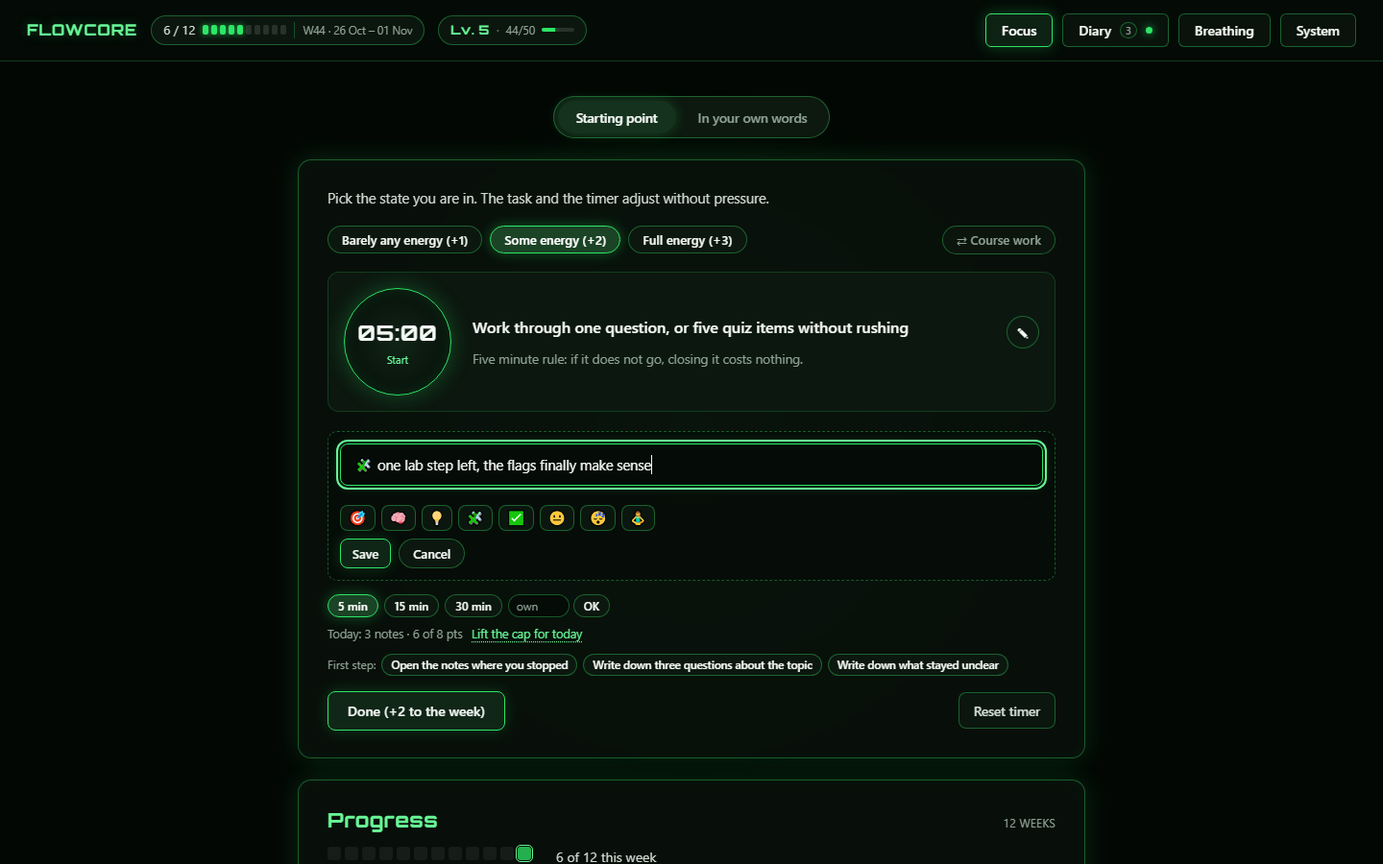
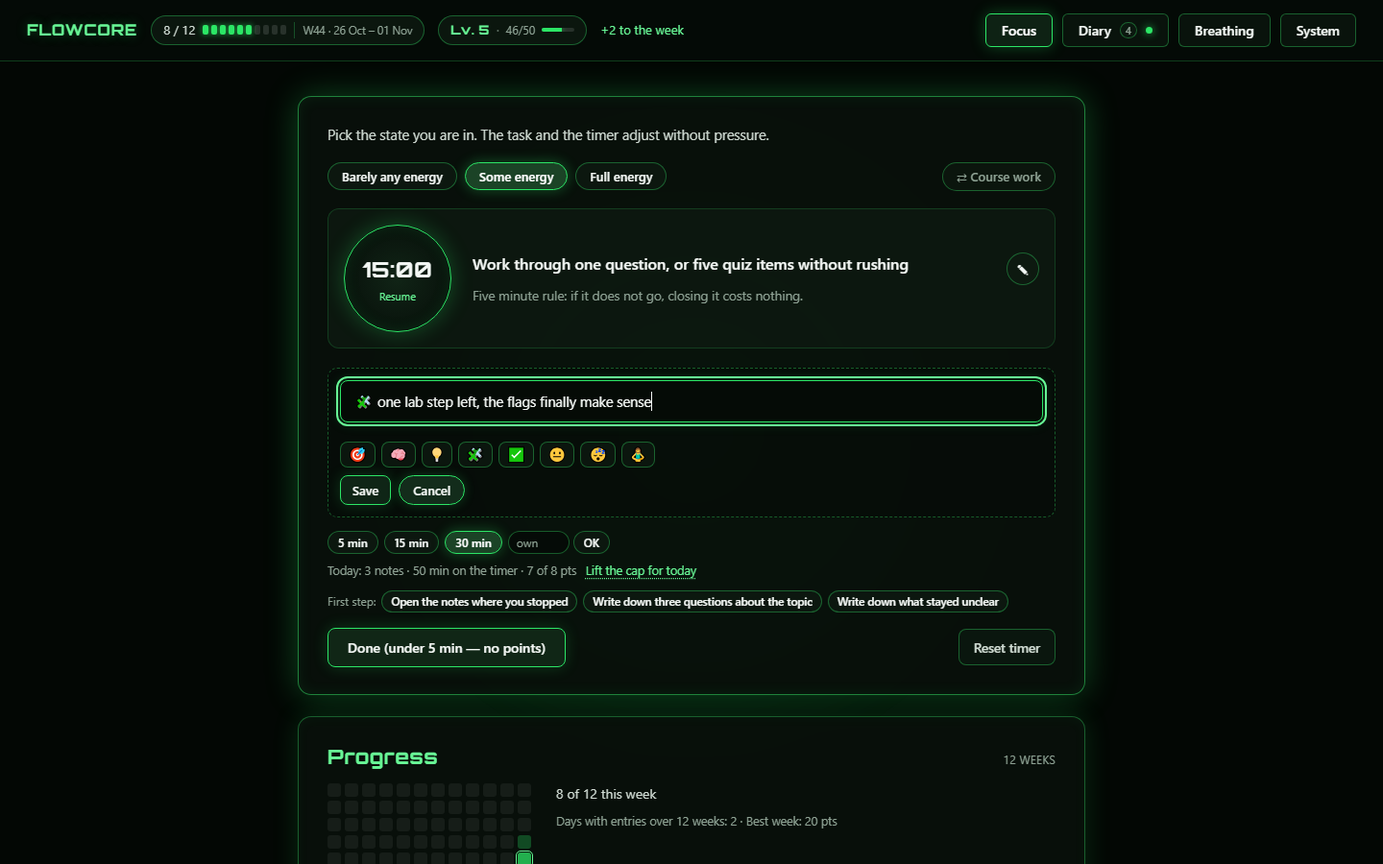
docs(flowcore): the READMEs describe time-priced points and the new diary
Both languages drop the +1/+2/+3 promise on the energy pills, gain the
ten-minute rule with the button that names the amount, the quick chips with
their types and the row marks. The check count follows the suite, and the
screenshots come from this build: one card, six chips, and a diary row with
a type mark next to an entry that already carries its own emoji.

diff --git a/README.ru.md b/README.ru.md
@@ -19,13 +19,15 @@
 - Пропущенный день ничего не стоит: очки живут на неделе, а не на дне.
 - Дневник остаётся в браузере: без аккаунта, без сервера, работает офлайн.
 
-**Три режима по силам.** «Совсем мало сил» (+1), «Немного сил» (+2), «Полные силы» (+3). Для каждой сферы свои задачи под каждый режим — не нужно придумывать формулировку заново.
+**Три режима по силам.** «Совсем мало сил», «Немного сил», «Полные силы». Режим выбирает, какая задача перед глазами и на сколько поставить таймер; очки он больше не решает. Для каждой сферы свои задачи под каждый режим — не нужно придумывать формулировку заново.
+
+**Очки — это подтверждённое время, а не выбранное настроение.** Отрезок даёт одно очко за каждые десять минут с округлением: 5–14 минут — 1, 15–24 — 2, 25 и больше — 3, и час всё равно 3. Короче пяти минут — ноль, так что правило пяти минут остаётся с наградой. Кнопка называет сумму до нажатия: цену задаёт таймер, а не выпадающий список.
 
 **Первый шаг вместо «поработать».** К задаче прилагаются три конкретных физических действия («открыть редактор», «прочитать последний абзац»). Пять минут считаются работой, даже если дальше не пошло.
 
 **Заметка прямо у задачи.** Карандаш рядом с задачей открывает строку на месте, с восемью эмодзи, которые вставляются в текст. Заметка ложится в дневник под названием сферы и очков не даёт: это память, а не выполненный шаг. Ряд эмодзи необязателен и выключается в «Системе»; в быстрой пометке дневника те же восемь знаков.
 
-**Две карточки, один переключатель.** «Точка старта» и «Своими словами» меняются местами кнопкой над ними: выбранная карточка занимает всю ширину, вторая ждёт в одном нажатии, и выбор запоминается. На телефоне это один экран вместо прокрутки.
+**Быстрая пометка в дневнике и маленький значок в каждой строке.** Шесть чипов — рабочий шаг, вовремя остановился, туман или усталость, ком в груди, поверхностное дыхание, хороший фокус — пишут запись одним тапом и сразу со своим типом, чтобы отчёт для врача не путал шаги, телесные сигналы и ранние остановки. У каждой строки есть маленький значок типа (шаг, сигнал, остановка, заметка), если у записи нет своего эмодзи. Отдельная карточка «Своими словами» убрана: она делала ту же работу, что этот блок, но платила за то же действие по-другому, а писать в одном месте достаточно.
 
 **На телефоне — две сводки.** Ряд длительностей таймера и три чипа первого шага живут за кнопками «5 мин ▾» и «Первый шаг ▾»: раскрываются на месте, закрываются после выбора, а сводка держит текущее значение. Цели касания выросли до 40 px, главное действие — до 44, чтобы в плохой день не приходилось прицеливаться. Сами четыре раздела переехали в полосу высотой 54 px внизу, текущий отмечен линией: шапка больше не липнет к верху, а новый раздел открывается с начала. У вкладки дневника не цифра, а точка: она загорается, только когда с прошлого захода туда что-то записалось, и гаснет, как только дневник открыт.
 
@@ -33,7 +35,7 @@
 
 **Неделя, а не день.** Очки копятся на неделю (по умолчанию 12, настраивается). Пропущенный день ничего не сбрасывает; неделя закрывается в архив сама. Видно тепловую карту за 12 недель и график последних недель.
 
-**Мягкий потолок дня: 8 очков.** После него записи идут дальше, но очки не растут — длина работы перестаёт быть единственной наградой. На хорошем дне потолок снимается одним кликом на строке «сегодня» до полуночи, а назавтра включается сам. Есть опция «очки только за отработанное время»: «Выполнено» даст очки, только если таймер честно отработал 5 минут.
+**Мягкий потолок дня: 8 очков.** После него записи идут дальше, но очки не растут — длина работы перестаёт быть единственной наградой. На хорошем дне потолок снимается одним кликом на строке «сегодня» до полуночи, а назавтра включается сам. Есть опция «очки только за отработанное время»: «Выполнено» не сработает, пока таймер не отработал 5 минут; без неё короткая заметка всё равно попадёт в дневник, просто без очков.
 
 **Уровень за всё время.** 10 опыта = уровень; опыт считается из всех очков за всю историю и не сгорает с неделей. Уровень открывает скины: изумруд (1), янтарь (3), призма (5), кибер (6), аврора (10) — каждый меняет палитру целиком, включая фоновую пульсацию. У призмы панель сине-фиолетовая, а по верху каждой карточки идёт статичная полоса из всех четырёх палитр.
 
@@ -43,7 +45,7 @@
 
 **Дыхание — две техники и фон.** «Спокойный выдох 4/6» на минуту и «Вздох на пять минут»: два вдоха носом и длинный выдох ртом — то, что снимает острую тревогу за пару циклов, когда минуты не хватает. Рядом — генератор коричневого шума с ползунком громкости: шум считается в браузере, ни файлов, ни сети. На телефоне звук обрывается, если погасить экран: это про пять-десять минут, а не про сон.
 
-**Дневник и выгрузка.** Быстрые пометки в один клик, сводка локально, сводка через ИИ (если вписан свой ключ Gemini), копирование всего дневника текстом и экспорт недели в `.md` с YAML-заголовком — файл сразу ложится в Obsidian.
+**Дневник и выгрузка.** Быстрые пометки в один клик со значком типа в каждой строке, сводка локально, сводка через ИИ (если вписан свой ключ Gemini), копирование всего дневника текстом и экспорт недели в `.md` с YAML-заголовком — файл сразу ложится в Obsidian.
 
 **Свои сферы и тексты.** Первый запуск — три вопроса: чем занята голова, сколько очков в неделю, как назвать главное дело. Пропустить можно одной кнопкой: тогда ставятся две нейтральные сферы — дело и отдых, обе на языке интерфейса. Дальше названия, задачи и шаги правятся прямо в панели.
 
@@ -118,7 +120,7 @@ python serve.py --lan      # доступ в домашней сети по http
 node tests/run.js
 ```
 
-Сейчас **462 проверки**: недельный ролловер и архив, миграция старых бэкапов, замок, дневной потолок и его снятие на день, уровень и скины, резерв, бонус отдыха, переключатель карточек, сводки на телефоне, заметка к задаче и набор эмодзи, методики дыхания и фазы, шум с общим выключателем звука, экспорт в Markdown, редактор сфер, интервью первого запуска, словарь на четыре языка (все ключи из разметки и кода на месте, склонения через `Intl.PluralRules`). Тесты вырезают скрипт из настоящего `flowcore.html`, поэтому проверяют именно тот файл, который открывает браузер.
+Сейчас **480 проверок**: недельный ролловер и архив, миграция старых бэкапов, замок, очки за подтверждённое время, дневной потолок и его снятие на день, уровень и скины, резерв, бонус отдыха, быстрые чипы и их типы, значок типа в строках дневника, сводки на телефоне, заметка к задаче и набор эмодзи, методики дыхания и фазы, шум с общим выключателем звука, экспорт в Markdown, редактор сфер, интервью первого запуска, словарь на четыре языка (все ключи из разметки и кода на месте, склонения через `Intl.PluralRules`). Тесты вырезают скрипт из настоящего `flowcore.html`, поэтому проверяют именно тот файл, который открывает браузер.
 
 Те же проверки запускаются на GitHub Actions при каждом push и pull request — файл `.github/workflows/tests.yml`. Сборки нет, поэтому шагов всего три: checkout, Node, `node tests/run.js`.
 

diff --git a/README.md b/README.md
@@ -19,13 +19,15 @@ If you are in a hurry:
 - A missed day costs nothing: points live on the week, not the day.
 - Your diary stays in the browser: no account, no server, works offline.
 
-**Three levels of energy.** Barely any (+1), some (+2), full (+3). Every area keeps its own task for each level, so you never invent the wording again.
+**Three levels of energy.** Barely any, some, full. The level picks which task is in front of you and how long the timer starts; it no longer decides the points. Every area keeps its own task for each level, so you never invent the wording again.
+
+**Points are the time you confirm, not the mood you picked.** A confirmed stretch gives one point for every ten minutes, rounded: 5–14 minutes give 1, 15–24 give 2, 25 and more give 3, and an hour is still 3. Under five minutes gives nothing, so the five-minute rule keeps its own reward. The button says the amount before you press it: the timer sets the price, not a dropdown.
 
 **A first step instead of "go work".** Each task comes with three concrete physical actions: open the editor, read the last paragraph, write down one question. Five minutes count as work even if you stop right there.
 
 **A note on the task itself.** The pencil next to the task opens a line right there, with eight emoji that insert into the text. The note lands in the diary under the area's name and gives no points: it is memory, not a finished step. The row of emoji is optional and switches off in System; the quick note in the diary offers the same eight signs.
 
-**Two cards, one switch.** "Starting point" and "In your own words" trade places through a switch above them: the chosen card takes the whole width, the other waits one tap away, and the choice is remembered. On a phone that is one screen instead of a scroll.
+**A quick note in the diary, and a small mark on every row.** Six chips — a work step, stopped in time, fog or fatigue, tightness in the chest, shallow breathing, good focus — write an entry in one tap with its own type, so the doctor report keeps steps, body signals and early stops apart. Every row also carries a small type mark (a step, a signal, a stop, a note) whenever the entry has no emoji of its own. The separate "In your own words" card is gone: it did the same job as this block but paid differently for the same act, and one place to write is enough.
 
 **On a phone, two summary buttons.** The row of timer lengths and the three first-step chips fold behind "5 min ▾" and "First step ▾": they open in place, close after a choice, and the summary keeps the current value. Every target grows to 40 px, and the primary action to 44, so nothing has to be aimed at on a bad day. The four sections themselves move into a 54 px bar along the bottom, the current one marked by a line; the header stops sticking and a new section opens from the top. The diary tab carries a dot, not a number: it appears only when something was written since you last opened the diary, and goes out the moment you do.
 
@@ -33,7 +35,7 @@ If you are in a hurry:
 
 **A week, not a day.** Points collect over the week (12 by default, adjustable). A missed day resets nothing, and the week closes into the archive on its own. The panel shows a heat map for the last 12 weeks and a chart of recent weeks.
 
-**A soft cap of 8 points a day.** Past it, notes keep going in and points stop growing, so the length of work stops being the only reward. On a day that is going well the cap can be lifted until midnight with one click on the today line; the next day it is back on its own. An optional strict mode gives points only for the time the timer actually ran.
+**A soft cap of 8 points a day.** Past it, notes keep going in and points stop growing, so the length of work stops being the only reward. On a day that is going well the cap can be lifted until midnight with one click on the today line; the next day it is back on its own. An optional strict mode refuses the button until the timer has run five minutes; without it a short note still goes into the diary, it just brings no points.
 
 **A level for all time.** 10 experience points make a level, counted from every point you ever earned, so a new week does not burn it. Levels unlock skins: emerald (1), amber (3), prism (5), cyber (6), aurora (10). Each one changes the whole palette, the background pulse included; prism turns the panel blue-violet and gives each card a thin static line of all four palettes.
 
@@ -43,7 +45,7 @@ If you are in a hurry:
 
 **Breathing: two techniques and a background.** "Calm exhale 4/6" runs for a minute. "A five-minute sigh" is two breaths in through the nose and one long breath out through the mouth, which is what takes the edge off acute anxiety when a minute is not enough. Next to it sits a brown noise generator with a volume slider. The noise is computed in the browser, so there are no files and no network. On a phone the sound stops when the screen locks, which makes this a tool for five or ten minutes, not for falling asleep.
 
-**Diary and export.** Notes in one tap, a summary built locally, an AI summary if you add your own Gemini key, the whole diary copied as text, and a week exported as `.md` with YAML front matter that Obsidian reads as is.
+**Diary and export.** Notes in one tap with a type mark on every row, a summary built locally, an AI summary if you add your own Gemini key, the whole diary copied as text, and a week exported as `.md` with YAML front matter that Obsidian reads as is.
 
 **Your own areas and wording.** The first run asks three questions: what is on your mind, how many points a week, what to call the main thing. One button skips all three and leaves two neutral areas, one thing of your own and rest, both in the interface language. Names, tasks and steps are edited in the panel afterwards.
 
@@ -118,7 +120,7 @@ On Windows, `FlowCore.cmd` does the same from a double click.
 node tests/run.js
 ```
 
-There are **462 checks**: week rollover and the archive, migration of older backups, the lock, the daily cap and lifting it for a day, level and skins, the reserve, the rest bonus, the card switch, the phone summaries, the task note and its emoji set, breathing techniques and their phases, noise under the master sound switch, Markdown export, the area editor, the first-run interview, and the dictionary in four languages (every key from the markup and the code exists, plurals go through `Intl.PluralRules`). The tests cut the script out of the real `flowcore.html`, so they check the file the browser actually opens.
+There are **480 checks**: week rollover and the archive, migration of older backups, the lock, points from confirmed time, the daily cap and lifting it for a day, level and skins, the reserve, the rest bonus, the quick chips and their types, the type mark in the diary rows, the phone summaries, the task note and its emoji set, breathing techniques and their phases, noise under the master sound switch, Markdown export, the area editor, the first-run interview, and the dictionary in four languages (every key from the markup and the code exists, plurals go through `Intl.PluralRules`). The tests cut the script out of the real `flowcore.html`, so they check the file the browser actually opens.
 
 The same checks run on GitHub Actions for every push and pull request, see `.github/workflows/tests.yml`. There is no build, so the job is three steps.
 
